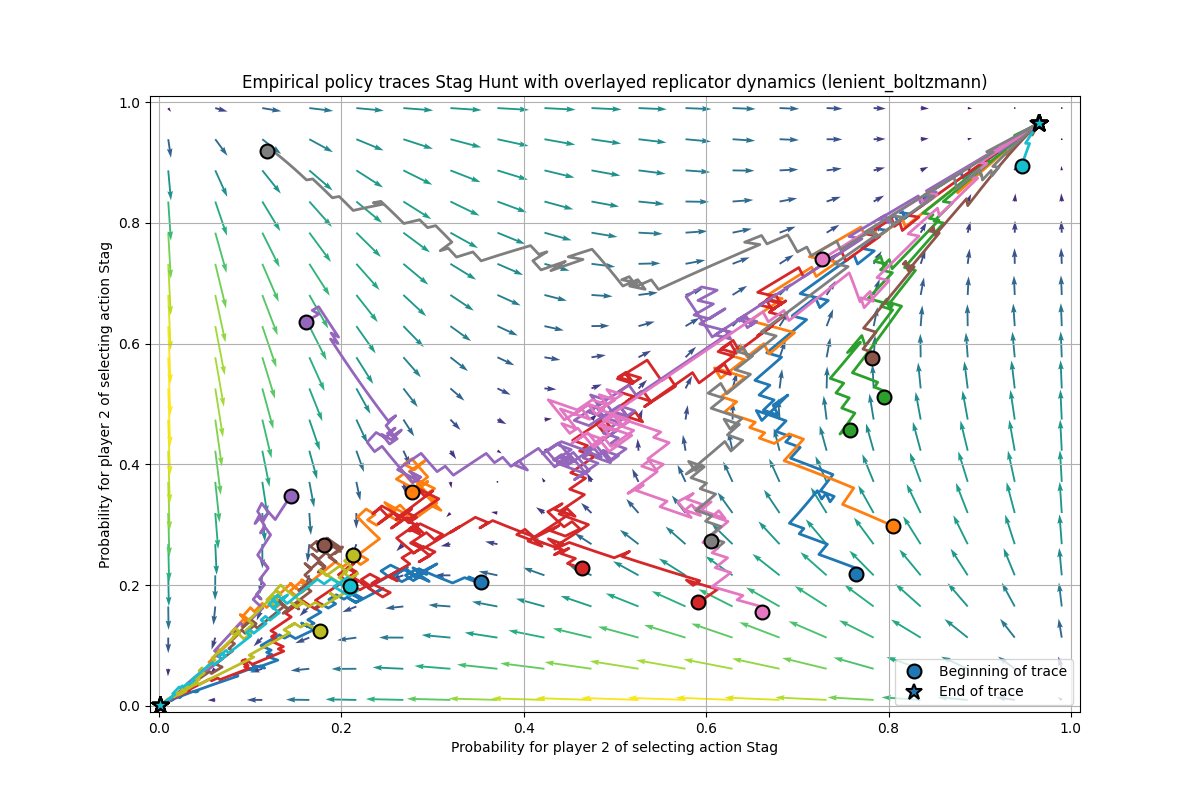
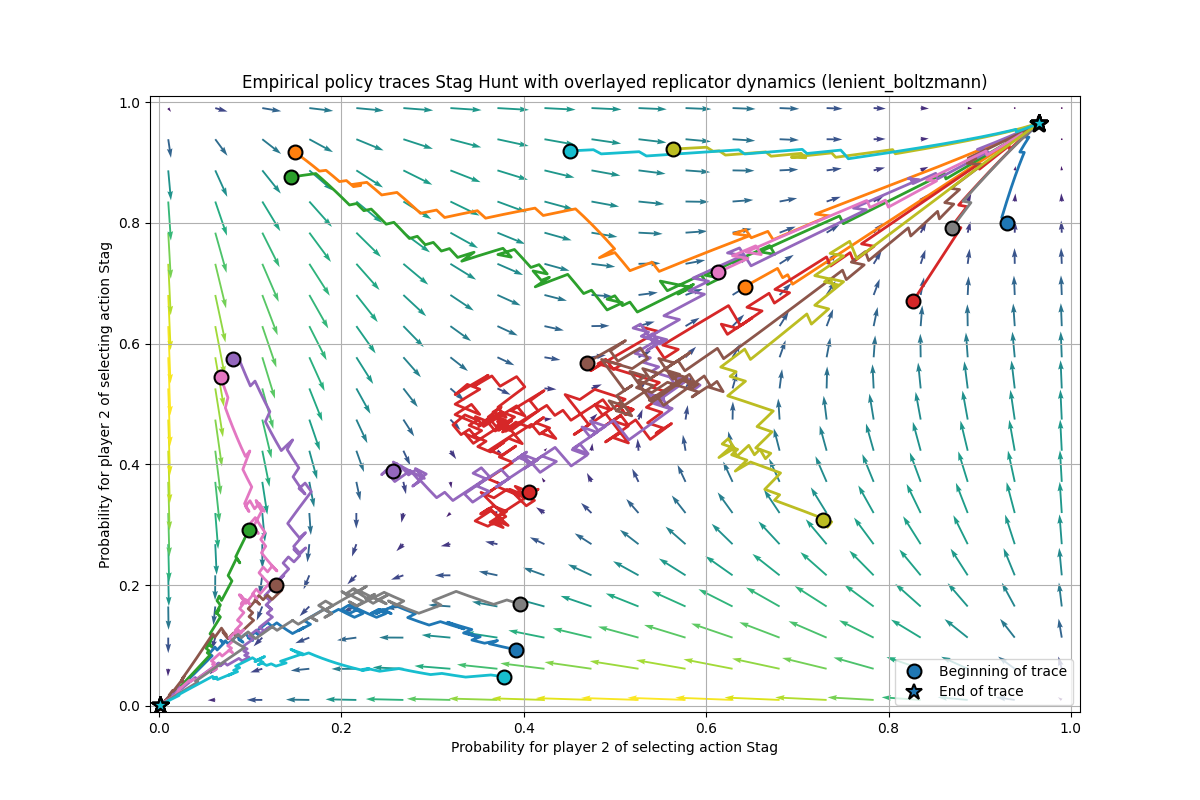
Normal  botlzmann trajectgoire not working, enough for today

diff --git a/part1/replicator_dynamic.py b/part1/replicator_dynamic.py
@@ -70,7 +70,6 @@ def compute_replicator_field(rewards, grid_size, policy):
                             diff_term = (S_leq**policy.K - S_lt**policy.K) / S_eq
                             additional_term[i] += b_ji * x_j * diff_term
                 Bx = additional_term
-                Bx2 = additional_term
             else:
                 # Bx = B @ x_policy.T
                 Bx = B @ x_policy
@@ -78,7 +77,7 @@ def compute_replicator_field(rewards, grid_size, policy):
                 policy.LR
                 * y_prob
                 * (
-                    ((Bx)[0] - (y_policy @ Bx)) / policy.TEMPERATURE
+                    ((Bx)[0] - (y_policy.T @ Bx)) / policy.TEMPERATURE
                     - (
                         np.log(y_policy[0])
                         - y_policy[0] * np.log(y_policy[0])

diff --git a/part1/main.py b/part1/main.py
@@ -97,8 +97,8 @@ if __name__ == "__main__":
     lr = 0.01
     # run_all_games(lr)
     learning = EpsilonGreedyPolicy(0.2, lr)
-    learning = BoltzmannPolicy(0.3, lr)
-    qlearning = LenientBoltzmannPolicy(0.3, lr)
+    qlearning = BoltzmannPolicy(0.3, lr)
+    learning = LenientBoltzmannPolicy(0.3, lr)
     run_experiment(StagHunt(), qlearning)
     # run_experiment(PrisonersDilemma())
     # run_experiment(MatchingPennies())
